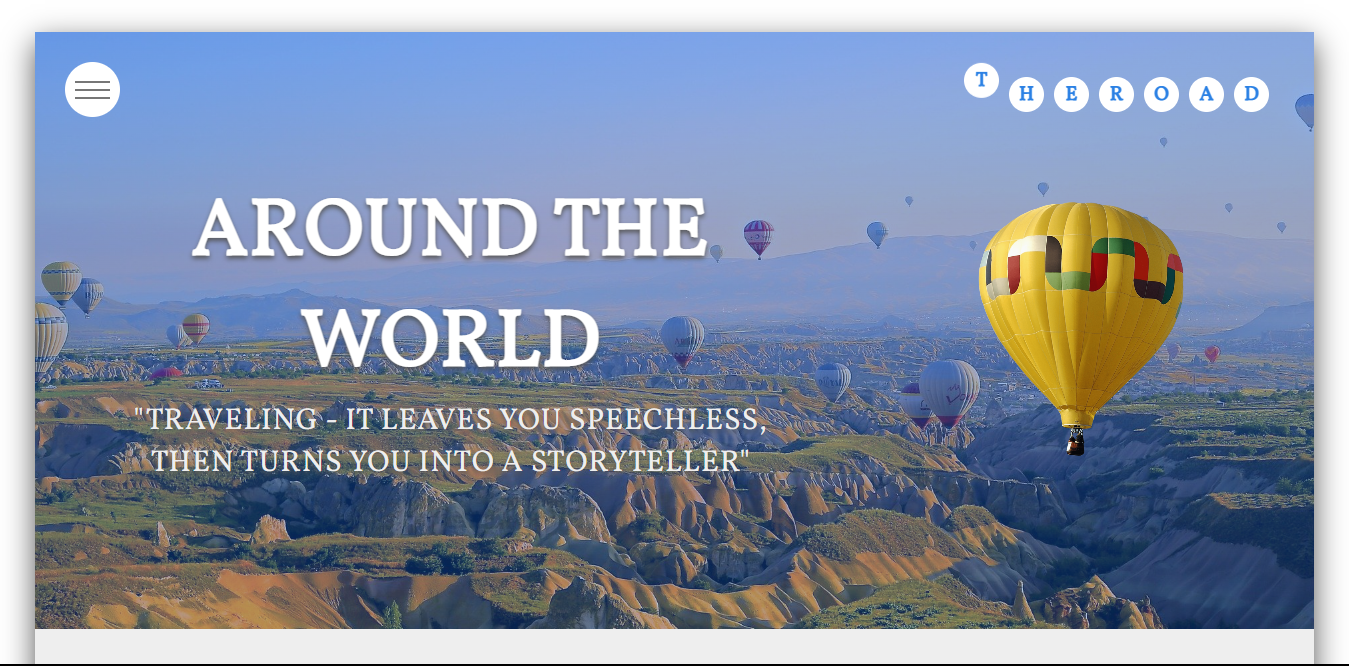
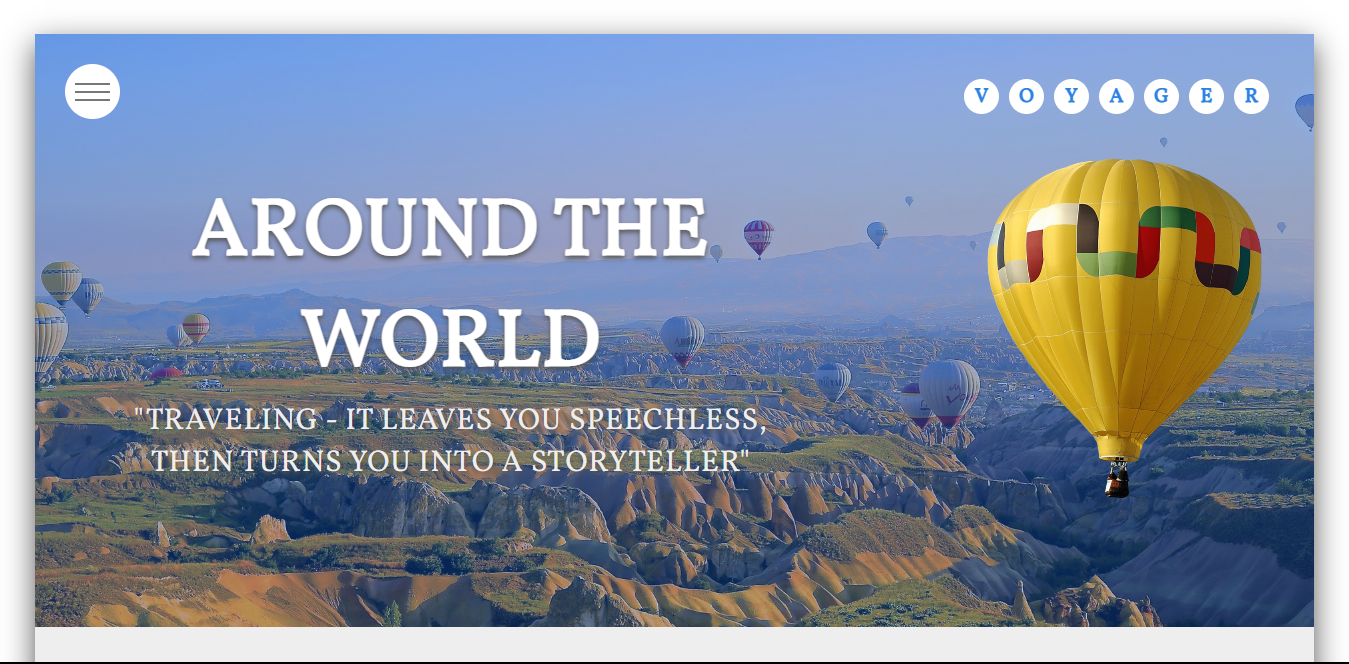
voyager tweaked

diff --git a/index.html b/index.html
@@ -48,12 +48,10 @@
             
             
         </div>
-
         <!-- main offcanvas ends -->
 
 
         <!-- contact link offcanvas begins -->
-
         <div class="offcanvas offcanvas-end shadow-lg" data-bs-scroll="true" data-bs-backdrop="true" tabindex="-1" id="contactoffcanvas" aria-labelledby="contactoffcanvasLabel">
             <div class="offcanvas-header">
 
@@ -71,14 +69,13 @@
             </div>
 
         </div>
-
         <!-- contact link offcanvas ends -->
 
-        <div class="p-0 m-0 container-fluid">
-            
+
+        <div class="p-0 m-0 container-fluid">           
             <header class="container-fluid position-fixed">
 
-                <div id="nav" class="container align-text-center mt-2  ps-0 border border-2 rounded-pill border-white text-white ">
+                <div id="nav" class="container align-text-center mt-3  ps-0 border border-2 rounded-pill border-white text-white ">
                 
                     <div id="logo-div" class="">
                         <a id="logo-link" class="text-white" href="#home">
